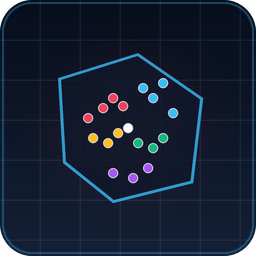
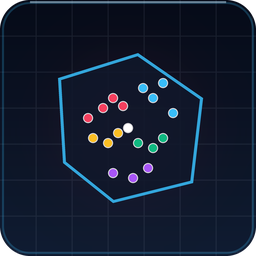
Release v2.5.4
Ultra-premium 8x supersampled 0-margin squircle icon suite with terraced depth and specular lighting

diff --git a/CHANGELOG.md b/CHANGELOG.md
@@ -1,5 +1,9 @@
 # Changelog - PlanX CartoLab
 
+## [2.5.4] - 2026-08-14
+
+- Ultra-premium 8x supersampled 0-margin squircle icon suite with terraced depth and specular lighting
+
 ## [2.5.3] - 2026-08-14
 
 - Elite 0-margin squircle icon suite (14 sub-tool icons), rich GUI toolbar and Print Layout integration
